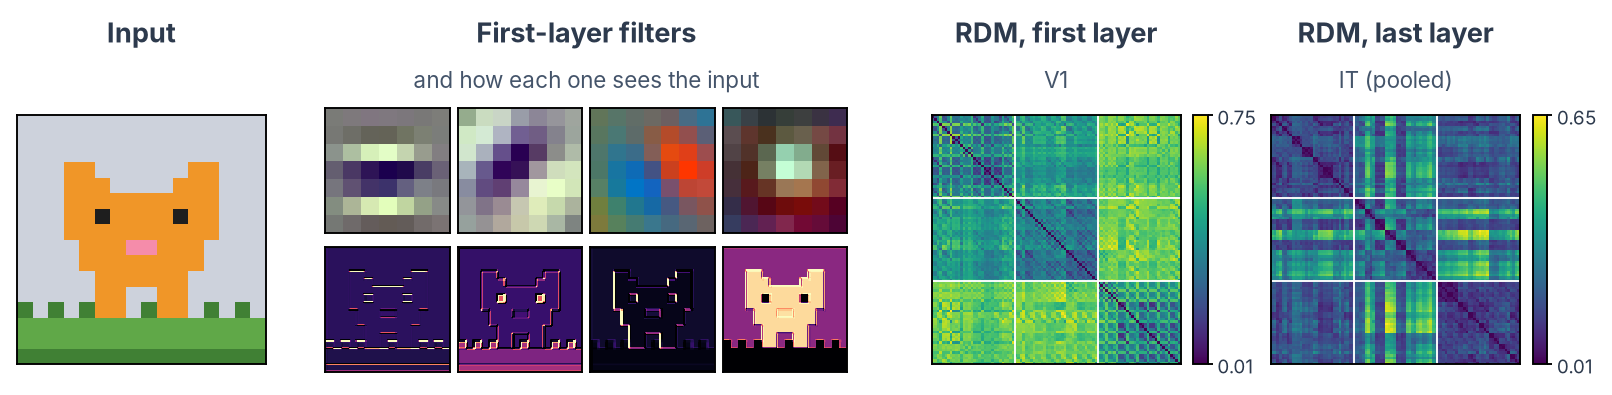
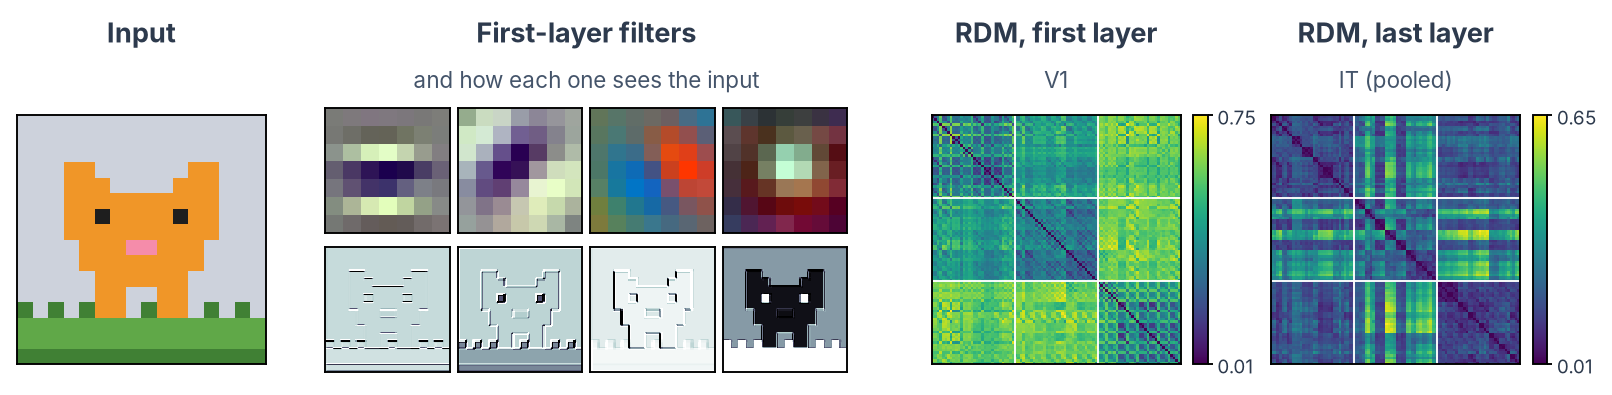
Use full DNN activations, simplify the figures, add an animation
Build RDMs, decoding and encoding from the full flattened layers
instead of 6x6 average-pooled maps, as the packages' own examples and
Conwell et al. (2024) do. Keep every unit for encoding too, with kernel
ridge regression, and explain when a random projection or a PCA fitted
on separate images is the right reduction. Save the features
compressed. All numbers on the extract, compare and model pages come
from a new run of the page code.

Figures: network activations in one white-to-black colormap throughout
(schematics, model cards, plots), no framed panels, plain step labels
on the overview. Add the convolution-to-RDM animation as a section on
the setup page, linked from the index for newcomers.

Changed region(s): [[0.1861, 0.6076, 0.5273, 0.9418]]

diff --git a/docs/research/dnn/dnn-compare.md b/docs/research/dnn/dnn-compare.md
@@ -176,7 +176,7 @@ print({roi: brain[roi].shape for roi in rois})  # runs x images x voxels
 
     ![RSA model comparison for the V1-like ROI](../../assets/dnn/dnn-rsa-v1.png){ width="49%" } ![RSA model comparison for the IT-like ROI](../../assets/dnn/dnn-rsa-it.png){ width="49%" }
 
-    The V1-like ROI is matched best by the early layers (conv1, r = 0.483; conv2, 0.468) and less by the later ones (fc7, 0.296). The IT-like ROI, which ignores where the sprite sits and its colours, shows the opposite profile: it is matched poorly by conv1 (0.134) and best by the deeper layers (conv5, 0.284). conv1 is not significantly below the noise ceiling of the V1-like ROI; every other layer falls below the ceiling of both ROIs. With crossnobis distances (box below), the IT profile has the same shape, highest at conv5.
+    The V1-like ROI is matched best by conv1 (r = 0.502) and worst by fc7 (0.296); in between, the profile dips at conv3 (0.376) and rises again at conv5 (0.425). The IT-like ROI, which ignores where the sprite sits and its colours, peaks later: it rises from conv1 (0.216) to conv5 (0.283) and falls in the fully connected layers (fc7, 0.236). conv1 is not significantly below the noise ceiling of the V1-like ROI; every other layer falls below the ceiling of both ROIs. With crossnobis distances (box below), the IT profile has the same shape, highest at conv5.
 
     ??? info "Other dissimilarities and comparisons, and when to use them"
         **Dissimilarity between two patterns** (`method` of `calc_rdm`):
@@ -232,11 +232,9 @@ print({roi: brain[roi].shape for roi in rois})  # runs x images x voxels
     # Four folds: every sprite is tested once, with all its versions
     cv = StratifiedGroupKFold(n_splits=4, shuffle=True, random_state=0)
     classifier = make_pipeline(StandardScaler(), SVC(kernel="linear"))  # (2)!
-    # Or shrinkage LDA (see the note below):
-    # from sklearn.decomposition import PCA
+    # Or, for ROI data only, shrinkage LDA (see the note below):
     # from sklearn.discriminant_analysis import LinearDiscriminantAnalysis
-    # classifier = make_pipeline(StandardScaler(), PCA(n_components=50),
-    #                            LinearDiscriminantAnalysis(solver="lsqr", shrinkage="auto"))
+    # classifier = make_pipeline(StandardScaler(), LinearDiscriminantAnalysis(solver="lsqr", shrinkage="auto"))
     
     
     def decode(X):
@@ -253,7 +251,7 @@ print({roi: brain[roi].shape for roi in rois})  # runs x images x voxels
     ```
 
     1. All variants of a sprite stay in the same fold. Otherwise the classifier could recognise the shifted cat from the training set instead of learning what a critter is.
-    2. A linear support vector machine, a common choice in MVPA. The scaler is part of the pipeline, so it is fitted on the training folds only: scaling all data before cross-validation leaks information from the test set. Shrinkage LDA, the commented alternative, is often preferred for brain data: it has no setting to tune (the shrinkage is estimated from the data, while the SVM's `C` is a choice), it takes the noise correlations between voxels into account, and it is fast, which helps when you repeat the decoding many times for a permutation test. It estimates a features × features covariance, so with thousands of network units reduce them first, as the PCA step does, inside the pipeline so that it is fitted on the training folds only.
+    2. A linear support vector machine, a common choice in MVPA. The scaler is part of the pipeline, so it is fitted on the training folds only: scaling all data before cross-validation leaks information from the test set. Shrinkage LDA, the commented alternative, is often preferred for brain data: it has no setting to tune (the shrinkage is estimated from the data, while the SVM's `C` is a choice), it takes the noise correlations between voxels into account, and it is fast, which helps when you repeat the decoding many times for a permutation test. It estimates a features × features covariance, so keep it for ROIs: for a network layer with tens of thousands of units that matrix does not fit in memory.
 
     ??? example "Plot decoding by layer"
 
@@ -270,7 +268,7 @@ print({roi: brain[roi].shape for roi in rois})  # runs x images x voxels
 
     ![Category decoding accuracy by AlexNet layer, with the two ROIs as reference lines](../../assets/dnn/dnn-decoding.png)
 
-    Category is readable almost everywhere: from every AlexNet layer (92 to 100% correct on new sprites, chance 33%), from the V1-like ROI (98%) and from the IT-like ROI (86%). The reason is the scenes: grass, plates and night skies make the categories visible in the pixels themselves, so even the first layer and V1 can read them. Decoding tells you that the information is there, not what kind of feature carries it. To ask whether a layer represents the objects rather than their backgrounds, you would test on images that change the background, or compare the profiles with RSA and encoding.
+    Category is readable almost everywhere: from every AlexNet layer (83 to 99% correct on new sprites, chance 33%), from the V1-like ROI (98%) and from the IT-like ROI (86%). The reason is the scenes: grass, plates and night skies make the categories visible in the pixels themselves, so even the first layer and V1 can read them. Decoding tells you that the information is there, not what kind of feature carries it. To ask whether a layer represents the objects rather than their backgrounds, you would test on images that change the background, or compare the profiles with RSA and encoding.
 
     ??? tip "Testing against chance"
         Chance is 1/3 here, and the plot marks it. To claim that an accuracy is *above* chance, though, you need a test: with few test images, a classifier that learned nothing still scatters widely around 33% ([Combrisson & Jerbi, 2015](https://doi.org/10.1016/j.jneumeth.2015.01.010)), and a binomial test does not apply because the four versions of a sprite are not independent. Use a permutation test: give the sprites random categories (all versions of a sprite the same one), rerun the same folds many times, and compare the real accuracy with that distribution. scikit-learn's `permutation_test_score` does not do this when you pass the sprite groups, because it then shuffles the labels only within each sprite. With the toy kit every accuracy is far above chance, so the test only matters for real data.
@@ -364,7 +362,7 @@ print({roi: brain[roi].shape for roi in rois})  # runs x images x voxels
 
     ![Encoding performance by layer for the two ROIs](../../assets/dnn/dnn-encoding.png)
 
-    conv1 predicts the V1-like voxels best (r = 0.61, against a ceiling of 0.73), and later layers less well (fc7, 0.50). Every layer predicts the IT-like voxels only weakly (r = 0.11 to 0.12, against a ceiling of 0.69). That is by design: the category part of the IT signal is predictable, because every layer sees the scenes, but most of the IT signal in the kit is a random pattern for each sprite, which no model can predict for a sprite it has not seen. RSA still finds IT structure in the deeper layers because it also compares the four variants of each sprite with one another, and those share the sprite's pattern.
+    conv1 predicts the V1-like voxels best (r = 0.60, against a ceiling of 0.73), and later layers less well (fc7, 0.50). Every layer predicts the IT-like voxels only weakly (r = 0.11 to 0.13, against a ceiling of 0.69). That is by design: the category part of the IT signal is predictable, because every layer sees the scenes, but most of the IT signal in the kit is a random pattern for each sprite, which no model can predict for a sprite it has not seen. RSA still finds IT structure in the deeper layers because it also compares the four variants of each sprite with one another, and those share the sprite's pattern.
 
 ---
 
@@ -388,14 +386,14 @@ A network has many layers, and which one you compare with a brain region changes
 
 === "Encoding"
 
-    Layers differ enormously in size: the first layer of VGG16 has about 3.2 million numbers per image. More features give the ridge regression more freedom, so equalise the layers before you compare them. (A separate effect, whatever the number of units: layers whose representations have a higher effective dimensionality tend to predict held-out responses better; [Elmoznino & Bonner, 2024](https://doi.org/10.1371/journal.pcbi.1011792).) Pool the feature maps (as the extract page does), project every layer onto the same number of dimensions with a random projection ([Conwell et al., 2024](https://doi.org/10.1038/s41467-024-53147-y)), or reduce it with a PCA fitted on separate images ([Schrimpf et al., 2018](https://doi.org/10.1101/407007)). To combine layers in one model, give each its own regularisation with banded ridge regression (`BandedRidgeCV` in himalaya; [Nunez-Elizalde et al., 2019](https://doi.org/10.1016/j.neuroimage.2019.04.012); [Dupré la Tour et al., 2022](https://doi.org/10.1016/j.neuroimage.2022.119728)) and split the explained variance between layers: it can be largely shared, so the layer that predicts best may add little of its own ([Lescroart et al., 2015](https://doi.org/10.3389/fncom.2015.00135)).
+    Layers differ enormously in size: the first layer of AlexNet has 193,600 numbers per image, fc7 has 4,096. On these pages every layer keeps all its units. Kernel ridge regression is made for this case: with more features than images, himalaya fits the model through the images × images kernel, which has the same size for every layer, and the regularisation chosen on the training sprites keeps a large layer from simply memorising them. Compare layers by how well they predict held-out sprites. (A separate effect, whatever the number of units: layers whose representations have a higher effective dimensionality tend to predict held-out responses better; [Elmoznino & Bonner, 2024](https://doi.org/10.1371/journal.pcbi.1011792).) If a layer does not fit in memory, or you want every layer to have the same number of features, project each layer onto the same number of dimensions with a seeded random projection ([Conwell et al., 2024](https://doi.org/10.1038/s41467-024-53147-y)), or reduce it with a PCA fitted once on separate images and then kept fixed ([Schrimpf et al., 2018](https://doi.org/10.1101/407007)). Never fit that PCA on the images you test on: the test images would then shape the features. To combine layers in one model, give each its own regularisation with banded ridge regression (`BandedRidgeCV` in himalaya; [Nunez-Elizalde et al., 2019](https://doi.org/10.1016/j.neuroimage.2019.04.012); [Dupré la Tour et al., 2022](https://doi.org/10.1016/j.neuroimage.2022.119728)) and split the explained variance between layers: it can be largely shared, so the layer that predicts best may add little of its own ([Lescroart et al., 2015](https://doi.org/10.3389/fncom.2015.00135)).
 
 **A recipe.**
 
 1. Record five to eight layers spread over the network, including the last one before the classifier, and name the modules in your methods.
 2. Report every layer, with the noise ceiling.
 3. If you need one layer, choose it on independent data or fix it in advance.
-4. For encoding, equalise the number of features across layers; to combine layers, use banded ridge.
+4. For encoding, keep every unit and use kernel ridge; reduce a layer only with a random projection or a PCA fitted on separate images. To combine layers, use banded ridge.
 5. Read high decoding from late layers as expected, and compare profiles rather than single numbers.
 
 ---

diff --git a/docs/research/dnn/dnn-model.md b/docs/research/dnn/dnn-model.md
@@ -50,7 +50,7 @@ for name, values in properties.items():
     model_rdms[name] = get_categorical_rdm(pd.factorize(values)[0], category_name=name)  # (3)!
     model_rdms[name].pattern_descriptors["sprite"] = sprites  # (4)!
 
-# One RDM per layer, as on Compare with brain data
+# One RDM per layer, as on Compare with human data
 layer_rdms = calc_rdm(
     [Dataset(dnn[layer], descriptors={"layer": layer}, obs_descriptors={"sprite": sprites}) for layer in layers],
     method="correlation",
@@ -94,11 +94,11 @@ print(tau.round(2))
 
     ```text
            category  position  background
-    conv1      0.22      0.06        0.24
-    conv2      0.30      0.18        0.34
-    conv3      0.30      0.16        0.29
-    conv4      0.34      0.15        0.32
-    conv5      0.35      0.11        0.26
+    conv1      0.35      0.07        0.38
+    conv2      0.35      0.17        0.36
+    conv3      0.33      0.19        0.33
+    conv4      0.38      0.16        0.39
+    conv5      0.39      0.12        0.34
     fc6        0.29      0.06        0.23
     fc7        0.24      0.03        0.20
     ```
@@ -117,7 +117,7 @@ print(tau.round(2))
 
 ![Kendall's tau-A between each AlexNet layer and the category, position and background models](../../assets/dnn/dnn-model-rsa.png)
 
-Position shows up in the early convolutional layers: its τ<sub>A</sub> is low at conv1 (0.06), peaks at conv2 (0.18) and falls to 0.03 at fc7, as the network becomes less sensitive to where the sprite sits. Category rises from conv1 (0.22) to conv5 (0.35) and drops a little at the end (fc7, 0.24). Background follows almost the same profile, and in conv1 and conv2 it even matches better than category. Only the spooky sprites are out at night, so the two models overlap, and one model at a time cannot tell them apart.
+Position shows up in the early convolutional layers: its τ<sub>A</sub> is low at conv1 (0.07), peaks at conv3 (0.19) and falls to 0.03 at fc7, as the network becomes less sensitive to where the sprite sits. Category stays between 0.33 and 0.39 through the convolutional layers, highest at conv5, and drops in the fully connected ones (fc7, 0.24). Background follows almost the same profile, and in conv1, conv2 and conv4 it even matches slightly better than category. Only the spooky sprites are out at night, so the two models overlap, and one model at a time cannot tell them apart.
 
 ---
 
@@ -165,25 +165,25 @@ print(held_out.round(2))
 
     ```text
            category  position  background
-    conv1      0.81      0.31        0.50
-    conv2      0.69      0.52        0.49
-    conv3      0.80      0.49        0.35
-    conv4      0.84      0.43        0.32
-    conv5      0.95      0.30        0.09
+    conv1      0.85      0.28        0.45
+    conv2      0.89      0.38        0.25
+    conv3      0.85      0.45        0.28
+    conv4      0.86      0.39        0.32
+    conv5      0.93      0.31        0.18
     fc6        0.96      0.21        0.18
     fc7        0.97      0.13        0.22
 
            category  position  background  all three
-    conv1      0.46      0.08        0.41       0.49
-    conv2      0.60      0.26        0.56       0.69
-    conv3      0.61      0.25        0.54       0.68
-    conv4      0.67      0.24        0.55       0.74
-    conv5      0.69      0.16        0.48       0.71
+    conv1      0.63      0.15        0.56       0.68
+    conv2      0.64      0.25        0.53       0.71
+    conv3      0.63      0.29        0.53       0.71
+    conv4      0.69      0.26        0.57       0.76
+    conv5      0.74      0.21        0.55       0.78
     fc6        0.60      0.04        0.43       0.58
     fc7        0.50     -0.01        0.37       0.48
     ```
 
-Once category is in the regression, background keeps a large weight only in the early layers (0.50 in conv1, against 0.81 for category) and almost none in conv5 (0.09 against 0.95): there, what looked like a match with the background was the category. Position keeps the profile it had on its own, peaking at conv2 (0.52), because it does not overlap with the other two. On held-out sprites, the combined model predicts the layer RDMs a little better than category alone from conv1 to conv5 (0.74 against 0.67 in conv4, for example), and a little worse in fc6 and fc7 (0.48 against 0.50 in fc7): there, the extra weights fit the training sprites more than they help with new ones. The ridge penalty barely matters here, because three models and 4,560 pairs of images leave little to stabilise.
+Once category is in the regression, background keeps a large weight only in conv1 (0.45, against 0.85 for category) and a small one from conv5 on (0.18 against 0.93 in conv5): there, what looked like a match with the background was mostly the category. Position keeps the profile it had on its own, peaking at conv3 (0.45), because it does not overlap with the other two. On held-out sprites, the combined model predicts the layer RDMs a little better than category alone from conv1 to conv5 (0.76 against 0.69 in conv4, for example), and a little worse in fc6 and fc7 (0.48 against 0.50 in fc7): there, the extra weights fit the training sprites more than they help with new ones. The ridge penalty barely matters here, because three models and 4,560 pairs of images leave little to stabilise.
 
 **When to use which.**
 
@@ -229,11 +229,11 @@ print(decoding.round(2))
 
     ```text
            category  position
-    conv1      1.00      1.00
-    conv2      1.00      1.00
-    conv3      0.97      0.96
-    conv4      0.97      1.00
-    conv5      0.92      0.99
+    conv1      0.83      0.96
+    conv2      0.99      1.00
+    conv3      0.91      0.93
+    conv4      0.96      0.96
+    conv5      0.98      0.94
     fc6        0.97      0.93
     fc7        0.95      0.86
     ```
@@ -252,7 +252,7 @@ print(decoding.round(2))
 
 ![Decoding accuracy for category and position by AlexNet layer, with chance levels](../../assets/dnn/dnn-model-decoding.png)
 
-Decoding reads both properties out of almost every layer, position with 86 to 100% (chance 50%) and category with 92 to 100% (chance 33%). Even fc7, whose geometry hardly follows position in the RSA, still tells shifted from centred sprites 86% of the time. Decoding finds any direction in the layer that separates the groups, however small, while RSA asks whether the property shapes the layer's overall geometry. A property can be decodable and still play a minor part in how the layer organises the images.
+Decoding reads both properties out of almost every layer, position with 86 to 100% (chance 50%) and category with 83 to 99% (chance 33%). Even fc7, whose geometry hardly follows position in the RSA, still tells shifted from centred sprites 86% of the time. Decoding finds any direction in the layer that separates the groups, however small, while RSA asks whether the property shapes the layer's overall geometry. A property can be decodable and still play a minor part in how the layer organises the images.
 
 ---
 

diff --git a/docs/research/dnn/dnn-extract.md b/docs/research/dnn/dnn-extract.md
@@ -12,7 +12,7 @@ When an image goes through a network, every layer turns the output of the previo
 
 We record them with [thingsvision](https://vicco-group.github.io/thingsvision/) ([Muttenthaler & Hebart, 2021](https://doi.org/10.3389/fninf.2021.679838)). It loads models from torchvision, timm, CORnet, CLIP and more through one interface, runs your images through them, and returns the activations of the layers you ask for.
 
-![From one image to one row of the activation matrix: feature maps, pooling, flattening](../../assets/dnn/dnn-activation-to-matrix.png)
+![From one image to one row of the activation matrix: the image, its 64 feature maps, the maps laid end to end, and the matrix of all 96 images](../../assets/dnn/dnn-activation-to-matrix.png)
 
 ---
 
@@ -128,34 +128,27 @@ layers = {
 activations = extractor.extract_features(
     batches=batches,
     module_names=list(layers),  # (1)!
-    # Keep the maps as channels x height x width, so we can pool them below
+    # Keep the maps as channels x height x width, to plot them further down
     flatten_acts=False,
 )
 
-
-def pool(activation, size=6):
-    """Average each convolutional feature map down to size x size, then flatten to images x features."""
-    if activation.ndim == 4:
-        activation = torch.nn.functional.adaptive_avg_pool2d(torch.from_numpy(activation), size).numpy()
-    return activation.reshape(len(activation), -1)
-
-
-features = {name: pool(activations[module]) for module, name in layers.items()}  # (2)!
+# One row per image: every value of every map, laid end to end
+features = {name: activations[module].reshape(len(activations[module]), -1) for module, name in layers.items()}  # (2)!
 for name, x in features.items():
     print(f"{name:>5}: {x.shape}")  # images x features
 ```
 
 1. All layers come out of one pass through the network, as a dictionary from layer name to array.
-2. Convolutional maps are large (the first layer of AlexNet gives 64 × 55 × 55 = 193,600 numbers per image). Averaging each map down to 6 × 6 keeps the coarse spatial layout and makes the arrays small enough for decoding and regression. For RSA alone you can keep the full maps with `flatten_acts=True`. With thousands of images the full maps no longer fit in memory; thingsvision's `extractor.batch_extraction()` (see the [thingsvision README](https://github.com/ViCCo-Group/thingsvision)) lets you pool each batch as it comes.
+2. Each layer becomes one row per image, with every value of every map laid end to end: the first layer of AlexNet gives 64 × 55 × 55 = 193,600 numbers per image. RSA, decoding and encoding on the next pages all use these full vectors, as [Conwell et al. (2024)](https://doi.org/10.1038/s41467-024-53147-y) did for their RSA; averaging each map down first, say to 6 × 6, would discard most of the spatial detail of the early layers (conv1's maps are 55 × 55). With thousands of images the full maps no longer fit in memory; thingsvision can then write the features to disk as it extracts them (`output_dir`, see its [low-memory options](https://vicco-group.github.io/thingsvision/LowMemOptions.html)).
 
 The output gives one matrix per layer, images × features:
 
 ```text
-conv1: (96, 2304)
-conv2: (96, 6912)
-conv3: (96, 13824)
-conv4: (96, 9216)
-conv5: (96, 9216)
+conv1: (96, 193600)
+conv2: (96, 139968)
+conv3: (96, 64896)
+conv4: (96, 43264)
+conv5: (96, 43264)
   fc6: (96, 4096)
   fc7: (96, 4096)
 ```
@@ -183,7 +176,8 @@ Whether to record a layer before or after its ReLU has not been settled by direc
 ## 4. Save them with the image order
 
 ```python
-np.savez(
+# Compressed: most values are zeros after the ReLU, so the file shrinks about sixfold
+np.savez_compressed(
     "alexnet_features.npz",
     image_id=manifest["image_id"].to_numpy(dtype=str),  # (1)!
     **features,
@@ -197,17 +191,17 @@ The file holds one array per layer, images × units, plus the image order:
 | Key | Shape | Dimensions |
 |---|---|---|
 | `image_id` | `(96,)` | images, the same order as `manifest.csv` |
-| `conv1` | `(96, 2304)` | images × units (64 channels × 6 × 6) |
-| `conv2` | `(96, 6912)` | images × units (192 channels × 6 × 6) |
-| `conv3` | `(96, 13824)` | images × units (384 channels × 6 × 6) |
-| `conv4` | `(96, 9216)` | images × units (256 channels × 6 × 6) |
-| `conv5` | `(96, 9216)` | images × units (256 channels × 6 × 6) |
+| `conv1` | `(96, 193600)` | images × units (64 channels × 55 × 55) |
+| `conv2` | `(96, 139968)` | images × units (192 channels × 27 × 27) |
+| `conv3` | `(96, 64896)` | images × units (384 channels × 13 × 13) |
+| `conv4` | `(96, 43264)` | images × units (256 channels × 13 × 13) |
+| `conv5` | `(96, 43264)` | images × units (256 channels × 13 × 13) |
 | `fc6` | `(96, 4096)` | images × units |
 | `fc7` | `(96, 4096)` | images × units |
 
 ??? example "Plot the feature maps of one image"
 
-    The unpooled activations are still in `activations`, so plotting the maps of the first layer for the cat takes a few lines:
+    The maps keep their shape in `activations`, so plotting the maps of the first layer for the cat takes a few lines:
 
     ```python
     import matplotlib.pyplot as plt
@@ -215,8 +209,8 @@ The file holds one array per layer, images × units, plus the image order:
     cat = manifest.index[manifest["image_id"] == "cat_original"][0]  # the row of the cat
     fig, axes = plt.subplots(2, 8, figsize=(9, 2.6))  # the first 16 of the 64 channels
     for channel, ax in enumerate(axes.flat):
-        # bright = strong response
-        ax.imshow(activations["features.1"][cat, channel], cmap="magma")
+        # white = 0, dark = strong response
+        ax.imshow(activations["features.1"][cat, channel], cmap="bone_r")
         ax.set_title(f"channel {channel}", fontsize=7)
         ax.set(xticks=[], yticks=[])
     plt.show()

diff --git a/docs/research/dnn/dnn-setup.md b/docs/research/dnn/dnn-setup.md
@@ -138,6 +138,16 @@ print(manifest.groupby("category")["sprite"].nunique())  # 8 sprites per categor
 
 ---
 
+## From an image to an RDM
+
+If neural networks are new to you, start here: the animation shows what the rest of this section does with every image, and how to read the model cards below.
+
+![Animation: a filter of AlexNet's first layer slides over the cat sprite and builds a channel map; the 64 maps of 55 × 55 are laid end to end into one vector; the same is done for a duck, a pizza, a banana, a ghost and a pumpkin, and the 6 × 6 RDM fills with 1 − Pearson r between the vectors, with the critter, food and spooky blocks marked](../../assets/dnn/dnn-conv-to-rdm.gif)
+
+Each filter of AlexNet's first layer slides over the image and gives one map of responses, and the ReLU sets the negative ones to zero. The 64 maps of 55 × 55 are laid end to end into one vector of 193,600 numbers per image. The RDM holds 1 − Pearson r between the vectors of every pair of images. The bars show a preview of each vector; the RDM uses all its values.
+
+---
+
 ## 3. Pick a model
 
 You rarely need to train a network yourself. Many trained models are public, and studies often compare several of them with the brain. Each card below says when a model is a good choice and shows what it does with our cat sprite: its first layer (four filters and their responses, or a view of the whole layer for models without shared filters) and the RDMs of its first and last layers over all 96 sprites, with the critter, food and spooky blocks marked.
@@ -425,7 +435,7 @@ License
 ![CLIP: the cat sprite with CLIP's 7 × 7 patch grid; four principal components of the first-layer patch filters (colour-striped centre, vertical grating, oblique edge, centre-surround blob), each above its 7 × 7 map for the cat; RDMs of the first layer and of the class token before the projection over the 96 sprites](../../assets/dnn/cards/clip.png){ .resource-card__figure }
 { .resource-card__plate }
 
-CLIP's 768 patch filters look noisy one by one, so the strip shows four principal components of them, as the ViT paper does ([Dosovitskiy et al., 2021](https://arxiv.org/abs/2010.11929), Fig. 7). Each map shows how strongly each of the 49 patches of the cat loads on that component.
+CLIP's 768 patch filters look noisy one by one, so the strip shows four principal components of them, as the ViT paper does ([Dosovitskiy et al., 2021](https://arxiv.org/abs/2010.11929), Fig. 7). Each map shows how strongly each of the 49 patches of the cat loads on that component. Loadings can be negative, so here white is the lowest loading, not 0.
 { .resource-card__caption }
 
 ??? example "Load it"

diff --git a/docs/research/dnn/index.md b/docs/research/dnn/index.md
@@ -5,7 +5,7 @@ Deep neural networks (DNNs) trained on images predict neural responses along the
 ![Top: the toy kit, 24 pixel-art sprites in three categories, each in four versions. Bottom: the workflow, in which the same images go to a network and to a participant, and layer activations are compared with brain patterns by RSA, decoding and encoding](../../assets/dnn/dnn-overview.png)
 
 !!! info "Before you start"
-    You need basic Python and a conda installation. If either is new to you, start with [Coding practices](../coding/index.md).
+    You need basic Python and a conda installation. If either is new to you, start with [Coding practices](../coding/index.md). If neural networks are new to you, look at [From an image to an RDM](dnn-setup.md#from-an-image-to-an-rdm) first.
 
 All pages use the same small dataset, so you can run every code block as you read. It has 24 pixel-art sprites in three categories, each category with its own scene and each sprite in four variants, and synthetic "brain activations" for two regions of interest.
 
